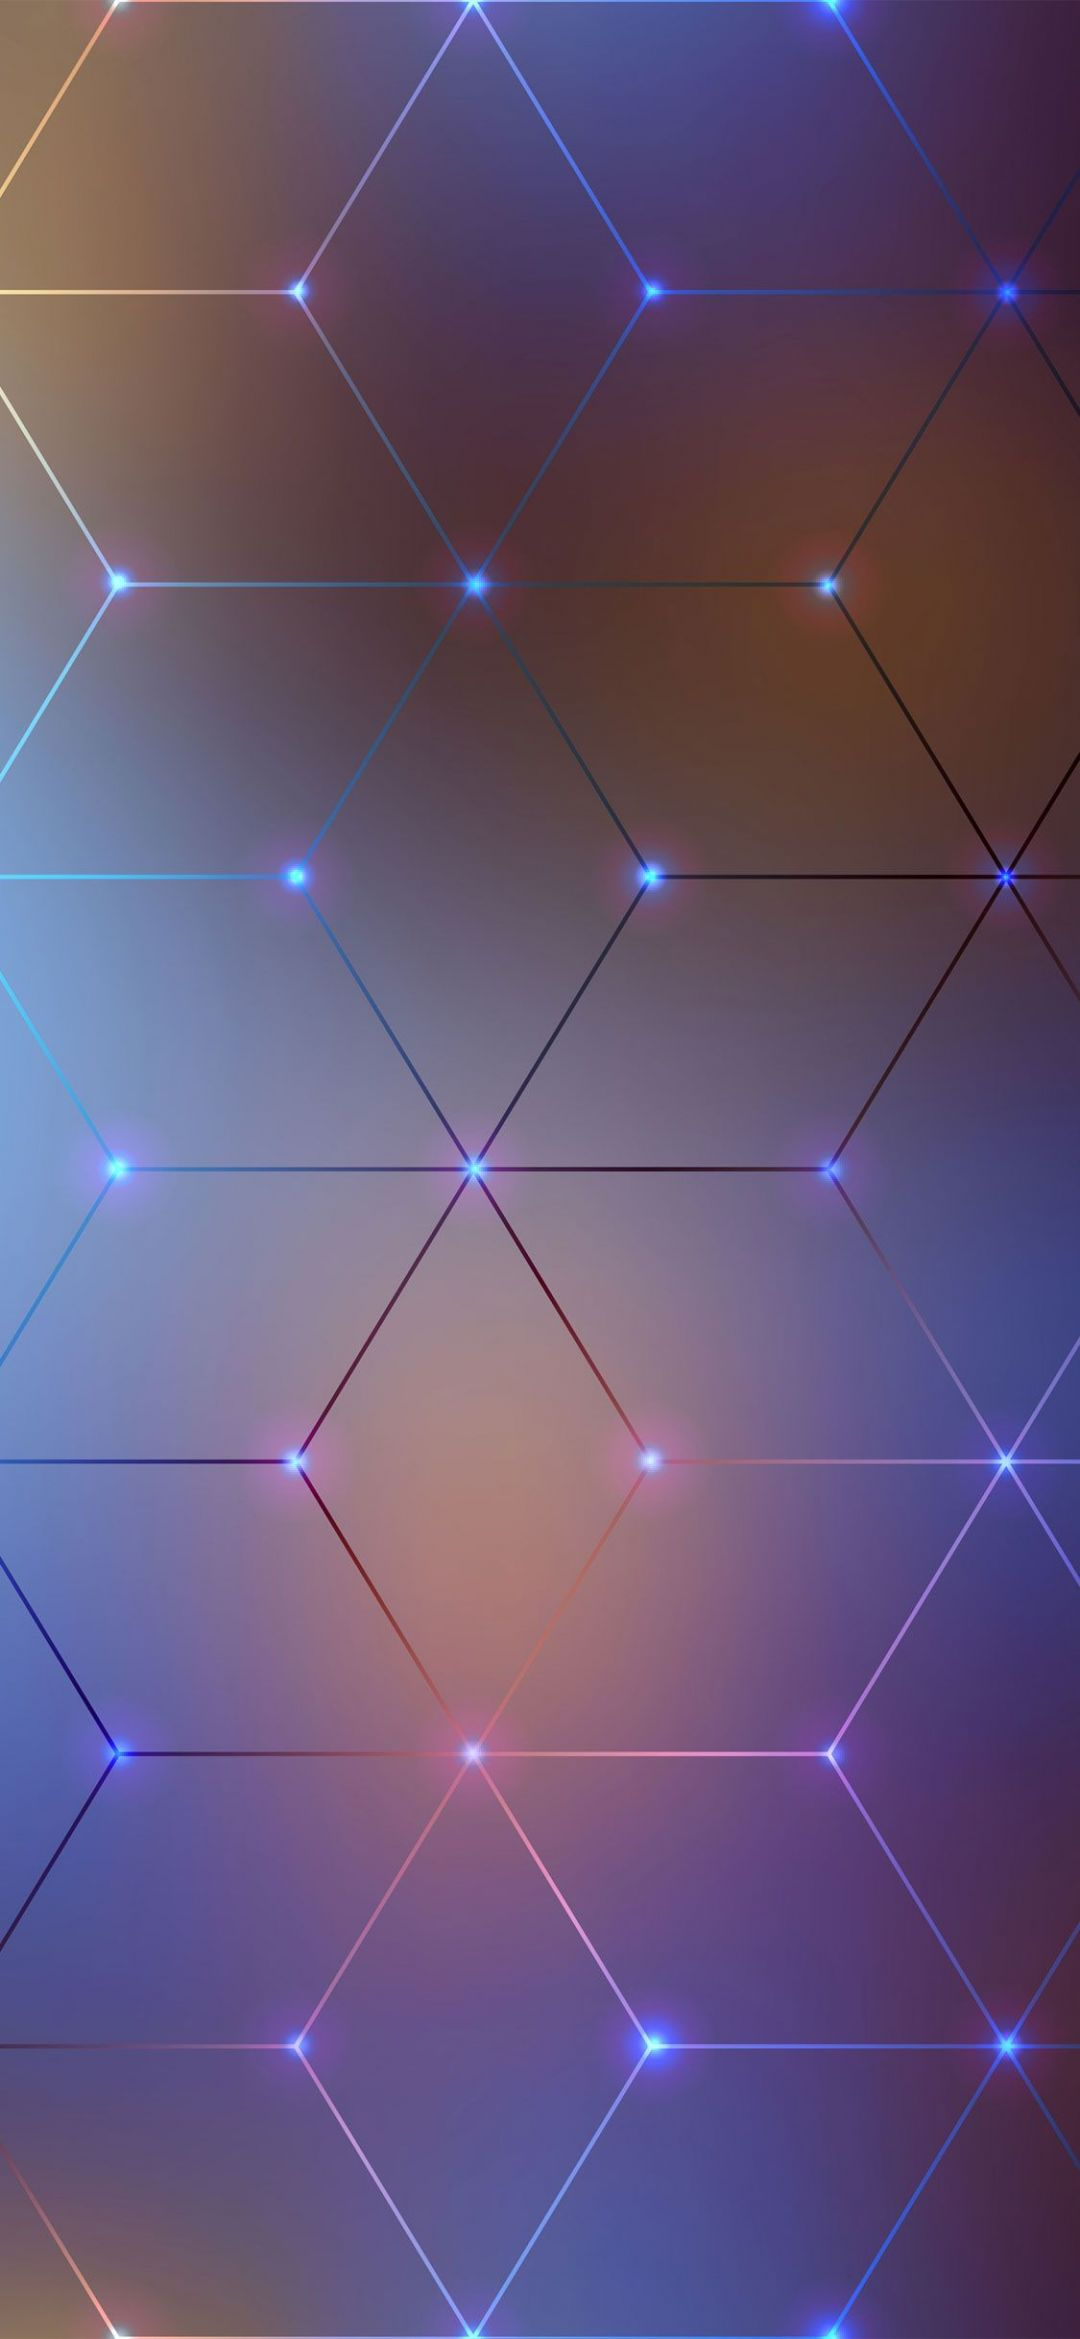
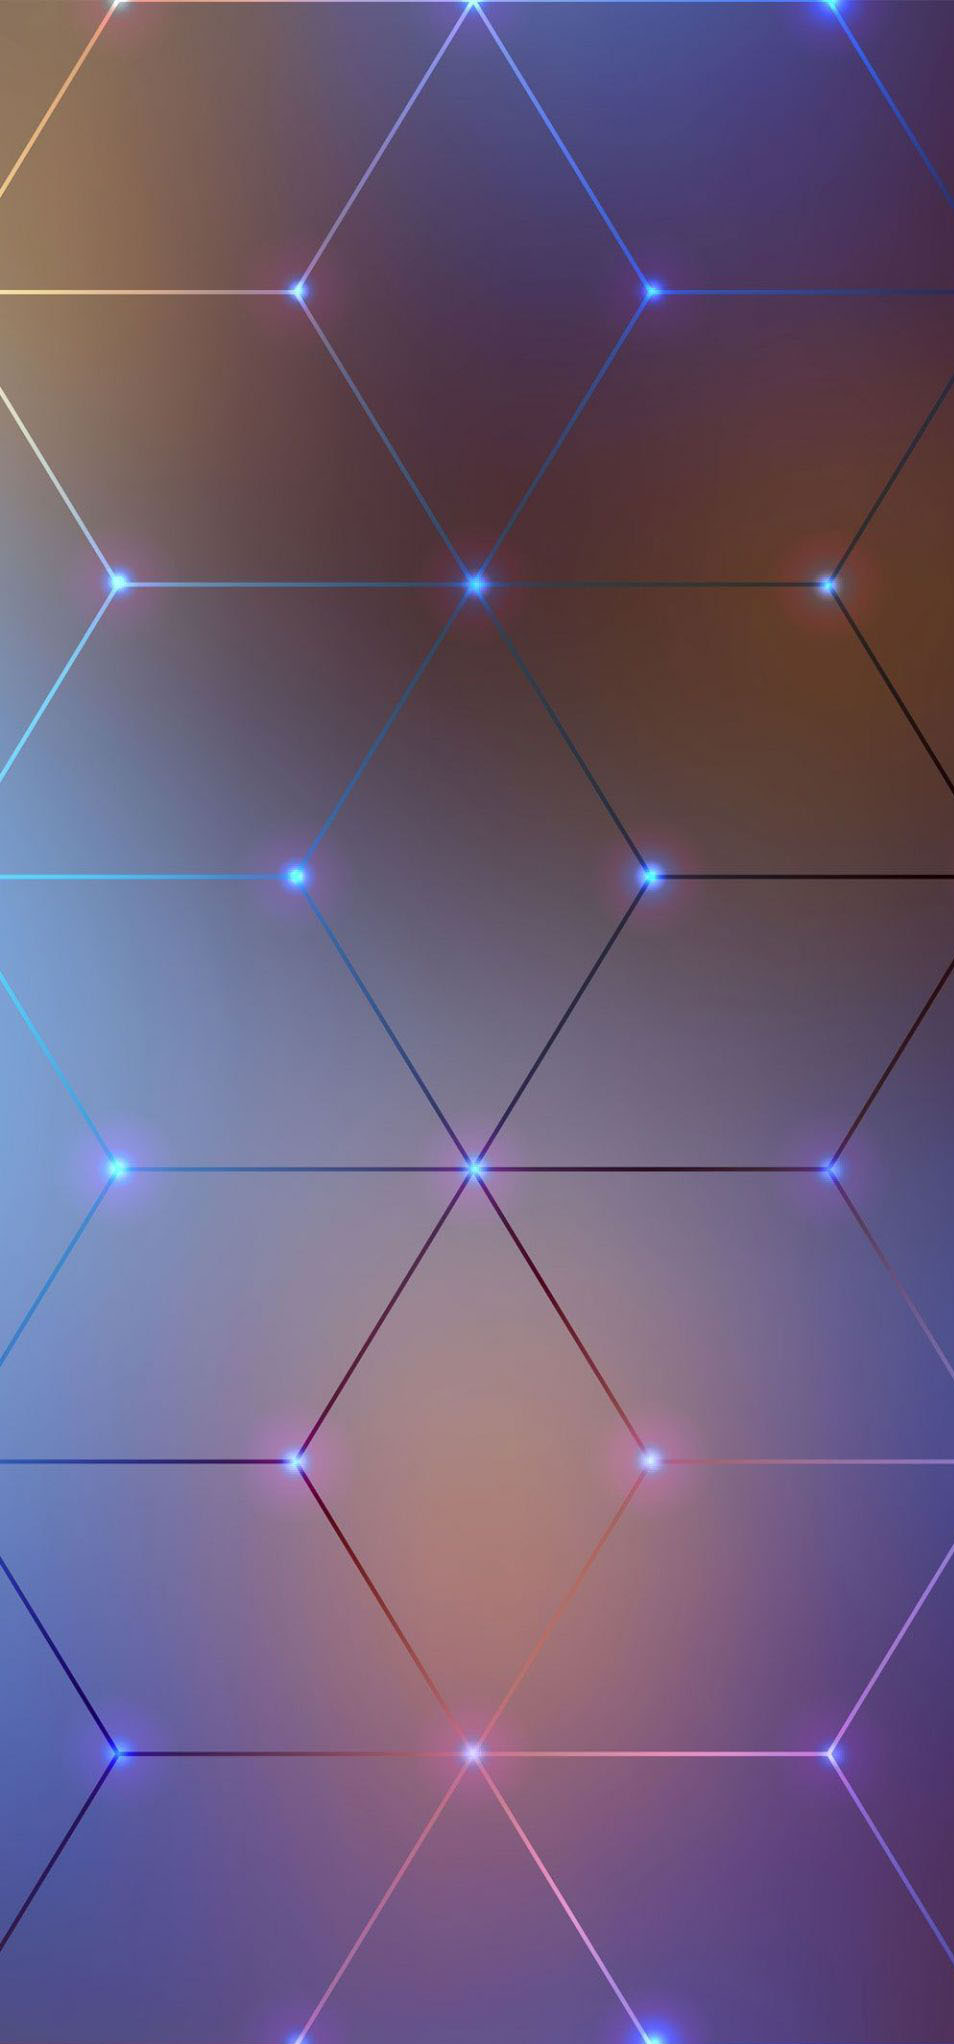
Update mobile background and adding some text to first slide

diff --git a/src/components/Portfolio/Portfolio.module.scss b/src/components/Portfolio/Portfolio.module.scss
@@ -1,5 +1,18 @@
+section {
+    padding: 80px 20vw 0 20vw;
+    margin-bottom: 0;
+
+    h2 {
+        color: #1c4280;
+        font-size: 60px;
+        margin-left: -5vw;
+        margin-bottom: 50px;
+    }
+}
+
 .firstScreen {
     display: flex;
+    flex-direction: column;
     justify-content: center;
     align-items: center;
     width: 100%;
@@ -7,6 +20,8 @@
     margin-bottom: 0;
     overflow: hidden;
     background: linear-gradient(to bottom, rgba(0, 0, 0, 0) 60%, rgba(10, 25, 47, 1) 95%, rgba(10, 25, 47, 1) 100%);
+    padding-left: 10vw;
+    padding-right: 10vw;
 
     img {
         width: 100vw;
@@ -20,14 +35,30 @@
         right: 0;
     }
 
-    h1 {
-        font-size: 70px;
-        color: rgb(255, 255, 255);
-        letter-spacing: 0.2em;
-        transform: translate(0, -60px);
-        border: 3px solid #fff;
-        padding: 25px;
-        backdrop-filter: blur(5px);
+    .headingContainer {
+        position: relative;
+        display: flex;
+        flex-direction: column;
+        justify-content: center;
+        align-items: flex-start;
+        padding: 20px;
+        margin-top: -150px;
+
+        span {
+            font-size: 50px;
+            color: rgb(255, 255, 255);
+        }
+
+        h1 {
+            font-size: 65px;
+            color: rgb(255, 255, 255);
+            letter-spacing: 0.2em;
+            margin: 25px 0;
+            border: 3px solid #fff;
+            padding: 25px;
+            backdrop-filter: blur(5px);
+            font-weight: bold;
+        }
     }
 
     .arrow {
@@ -42,30 +73,6 @@
         animation-duration: 1000ms;
         animation-iteration-count: infinite;
         animation-timing-function: ease;
-    }
-}
-
-@keyframes arrow-animation {
-    0% {
-        transform: translate3d(0, 0, 0);
-    }
-    50% {
-        transform: translate3d(0, -20px, 0);
-    }
-    100% {
-        transform: translate3d(0, 0, 0);
-    }
-}
-
-section {
-    padding: 80px 20vw 0 20vw;
-    margin-bottom: 0;
-
-    h2 {
-        color: #1c4280;
-        font-size: 60px;
-        margin-left: -5vw;
-        margin-bottom: 50px;
     }
 }
 
@@ -175,16 +182,28 @@ section {
 
 @media (max-width: 1230px) {
     .firstScreen {
-        h1 {
-            font-size: 55px;
+        .headingContainer {
+            span {
+                font-size: 40px;
+            }
+
+            h1 {
+                font-size: 50px;
+            }
         }
     }
 }
 
 @media (max-width: 1024px) {
     .firstScreen {
-        h1 {
-            font-size: 40px;
+        .headingContainer {
+            span {
+                font-size: 30px;
+            }
+
+            h1 {
+                font-size: 40px;
+            }
         }
     }
 
@@ -215,8 +234,16 @@ section {
 
 @media (max-width: 768px) {
     .firstScreen {
-        h1 {
-            font-size: 36px;
+        .headingContainer {
+            span {
+                font-size: 30px;
+            }
+
+            h1 {
+                font-size: 35px;
+                margin: 10px 0;
+                padding: 15px;
+            }
         }
     }
 
@@ -267,16 +294,45 @@ section {
 
 @media (max-width: 600px) {
     .firstScreen {
-        h1 {
-            font-size: 25px;
+        .headingContainer {
+            span {
+                font-size: 25px;
+            }
+
+            h1 {
+                font-size: 30px;
+                padding: 10px;
+            }
         }
     }
 }
 
-@media (max-width: 380px) {
+@media (max-width: 450px) {
     .firstScreen {
-        h1 {
-            font-size: 18px;
+        .headingContainer {
+            span {
+                font-size: 20px;
+            }
+
+            h1 {
+                font-size: 25px;
+                padding: 10px;
+            }
+        }
+    }
+}
+
+@media (max-width: 400px) {
+    .firstScreen {
+        .headingContainer {
+            span {
+                font-size: 20px;
+            }
+
+            h1 {
+                font-size: 20px;
+                padding: 10px;
+            }
         }
     }
 }
@@ -302,4 +358,16 @@ section {
 .visible {
     opacity: 1;
     transform: translate(0, 0);
+}
+
+@keyframes arrow-animation {
+    0% {
+        transform: translate3d(0, 0, 0);
+    }
+    50% {
+        transform: translate3d(0, -20px, 0);
+    }
+    100% {
+        transform: translate3d(0, 0, 0);
+    }
 }

diff --git a/src/components/Portfolio/index.jsx b/src/components/Portfolio/index.jsx
@@ -118,7 +118,13 @@ function Portfolio() {
             <main>
                 <section id="home" className={clsx(styles.firstScreen)}>
                     <img src={isDesktop ? "./assets/background-desktop.jpg" : "./assets/background-mobile.jpg"} alt="Background section" />
-                    <h1>{nombre.toUpperCase()}</h1>
+
+                    <div className={styles.headingContainer}>
+                        <span>Hello, I'm</span>
+                        <h1>{nombre.toUpperCase()}</h1>
+                        <span>Nice to meet you!</span>
+                    </div>
+
                     <svg className={styles.arrow} data-name="Layer 1" xmlns="http://www.w3.org/2000/svg" viewBox="0 0 24 24">
                         <path d="M3.81 4.38 8 8.57l4.19-4.19 1.52 1.53L8 11.62 2.29 5.91l1.52-1.53z" />
                     </svg>
